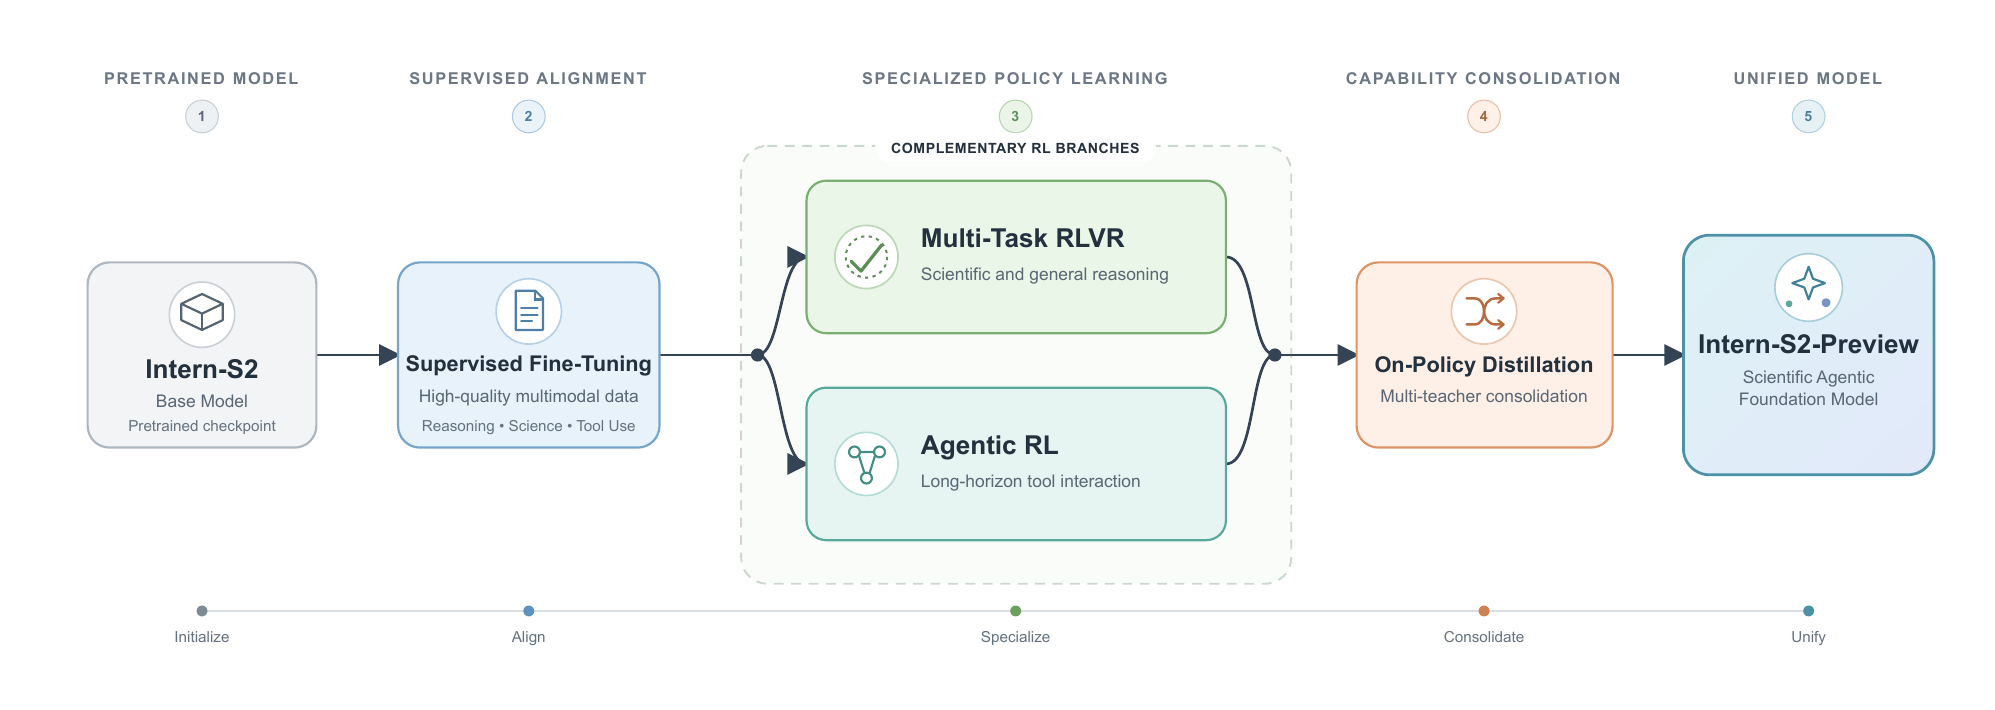
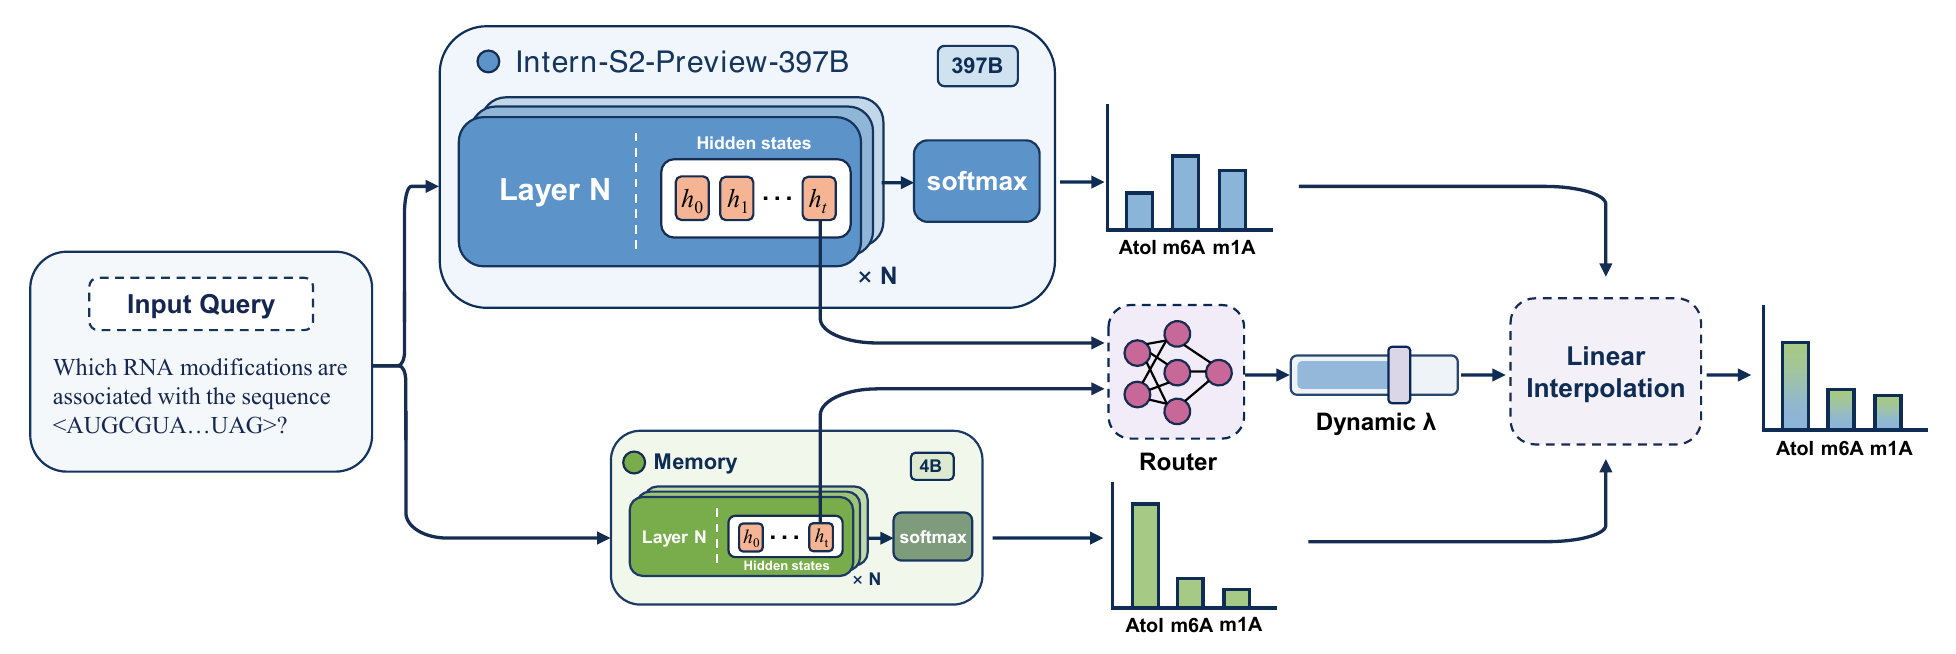
Use requested Figure 1 Memory Decoder architecture thumbnail

diff --git a/index.html b/index.html
@@ -194,8 +194,8 @@
           </article>
 
           <article class="paper paper-with-figure" data-topic="agent" data-selected="true">
-            <button class="paper-figure" type="button" aria-label="View Intern-S2-Preview post-training pipeline">
-              <img src="images/selected_paper_figs/interns2preview.png?v=figure6" alt="Intern-S2-Preview post-training pipeline (Figure 6 from the technical report)" width="1995" height="710" loading="lazy" decoding="async">
+            <button class="paper-figure" type="button" aria-label="View Intern-S2-Preview Memory Decoder architecture">
+              <img src="images/selected_paper_figs/interns2preview.png?v=figure1" alt="Intern-S2-Preview Memory Decoder architecture (Figure 1 from the technical report)" width="1956" height="654" loading="lazy" decoding="async">
             </button>
             <div class="paper-content">
               <div class="paper-meta">
